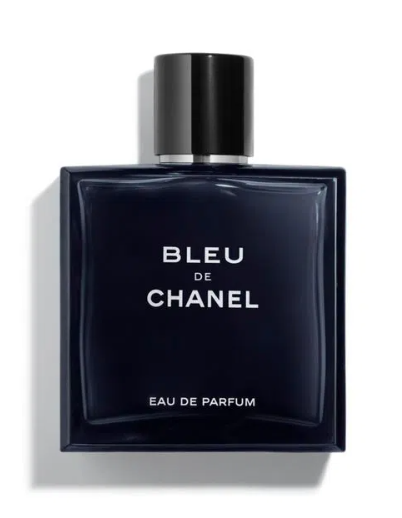
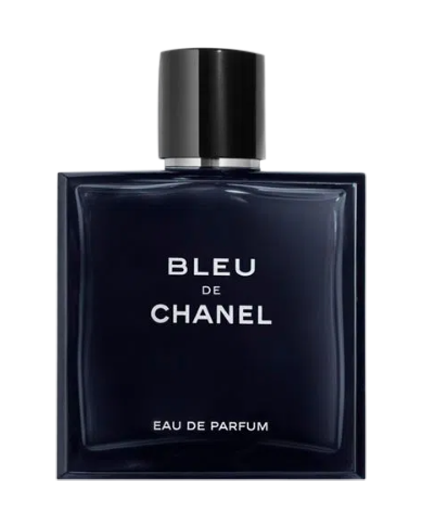
fotos e index

Changed region(s): [[0.0597, 0.0618, 0.8657, 0.9575], [0.3582, 0.4633, 0.6567, 0.6178], [0.6269, 0.1236, 0.6567, 0.278]]

diff --git a/index.html b/index.html
@@ -71,10 +71,7 @@
         </div> 
           
                
-            <!--<img src="./img/PNG render/1Milion PacoRabanne.png" alt="" class="perfumeImgBox">
-            <div class="nombrePerfume">Bleu de Chanel</div>
-            <div class="marca">Chanel</div>
-            <div class="precio">$15000</div>-->
+            
         </div>
 
         <div class="box">
@@ -106,8 +103,7 @@
         <div class="ellas__button">
           <a class="enlace" href="#"><span class="icon-carrito"><i class="fa-solid fa-cart-shopping" style="color: #000000;"></i></span>A&ntilde;adir al carrito</a>
       </div>
-          <!--<img src="./img/PNG Render/N5Channel.png" alt ="PERFUME CHANNEL N5" class="perfumeImgBox">
-            <div class="nombrePerfume">CHANNEL N5</div>-->
+         
         </div>
 
         <div class="box">
@@ -124,8 +120,7 @@
         <div class="ellas__button">
           <a class="enlace" href="#"><span class="icon-carrito"><i class="fa-solid fa-cart-shopping" style="color: #000000;"></i></span>A&ntilde;adir al carrito</a>
         </div>
-            <!--<img src="./img/PNG Render 2/HugoBoss.png" alt ="PERFUME HUGO BOSS" class="perfumeImgBox">
-            <div class="nombrePerfume">HUGO BOSS</div>-->
+          
         </div>
 
         <div class="box">
@@ -142,15 +137,14 @@
         <div class="ellas__button">
           <a class="enlace" href="#"><span class="icon-carrito"><i class="fa-solid fa-cart-shopping" style="color: #000000;"></i></span>A&ntilde;adir al carrito</a>
       </div>
-            <!--<img src="./img/PNG Render 2/CocoChanel.png" alt ="PERFUME COCO CHANEL" class="perfumeImgBox">
-            <div class="nombrePerfume">COCO CHANNEL</div>-->
+           
         </div>
 
         <div class="box">
 
           <div class="ellas__nombres">
-            <img src="img/Ellas/one_million.png" alt="foto del perfume FAM_EDP1">
-            <h2 id = "perfume6">One Million</h2>
+            <img src="img/Ellas/one_million.png" alt="foto del perfume one_million">
+            <h2 id = "perfume6">ONE MILLION</h2>
           </div>
 
           <div class="ellas__descripcion">
@@ -160,14 +154,13 @@
         <div class="ellas__button">
           <a class="enlace" href="#"><span class="icon-carrito"><i class="fa-solid fa-cart-shopping" style="color: #000000;"></i></span>A&ntilde;adir al carrito</a>
       </div>
-            <!--<img src="./img/PNG Render 2/1Milion PacoRabanne.png" alt ="PERFUME ONE MILLION" class="perfumeImgBox">
-            <div class="nombrePerfume">ONE MILLION</div>-->
+           
         </div>
 
         <div class="box">
 
           <div class="ellas__nombres">
-            <img src="img/Ellas/212vip.png" alt="foto del perfume FAM_EDP1">
+            <img src="img/Ellos/moschino.png" alt="foto del perfume moschino">
             <h2 id="perfume7"></h2>
           </div>
 
@@ -178,14 +171,13 @@
         <div class="ellas__button">
           <a class="enlace" href="#"><span class="icon-carrito"><i class="fa-solid fa-cart-shopping" style="color: #000000;"></i></span>A&ntilde;adir al carrito</a>
       </div>
-            <!--<img src="./img/Ellos/guerlain.PNG" alt ="PERFUME GUERLAIN" class="perfumeImgBox">
-            <div class="nombrePerfume">L’HOME IDEAL GUERLAIN </div>-->
+            
         </div>
 
         <div class="box">
 
           <div class="ellas__nombres">
-            <img src="img/Ellos/terrae.PNG" alt="foto del perfume FAM_EDP1">
+            <img src="img/Ellos/terrae.PNG" alt="foto del perfume terrae">
             <h2 id="perfume8"></h2>
           </div>
 
@@ -196,14 +188,13 @@
         <div class="ellas__button">
           <a class="enlace" href="#"><span class="icon-carrito"><i class="fa-solid fa-cart-shopping" style="color: #000000;"></i></span>A&ntilde;adir al carrito</a>
         </div>
-            <!--<img src="./img/Ellas/coco.png" alt ="PERFUME COCO CHANEL" class="perfumeImgBox">
-            <div class="nombrePerfume">COCO CHANNEL</div>-->
+            
         </div>
 
         <div class="box">
 
           <div class="ellas__nombres">
-            <img src="img/Ellas/amor.png" alt="foto del perfume FAM_EDP1">
+            <img src="img/Ellas/amor.png" alt="foto del perfume Amor">
             <h2 id="perfume9"></h2>
           </div>
 
@@ -214,13 +205,12 @@
         <div class="ellas__button">
           <a class="enlace" href="#"><span class="icon-carrito"><i class="fa-solid fa-cart-shopping" style="color: #000000;"></i></span>A&ntilde;adir al carrito</a>
       </div>
-            <!--<img src="./img/Ellas/212vip.png" alt ="PERFUME 212 VIP" class="perfumeImgBox">
-            <div class="nombrePerfume">212 VIP</div>-->
+           
         </div>
 
         <div class="box">
           <div class="ellas__nombres">
-            <img src="img/Ellas/cher.png" alt="foto del perfume FAM_EDP1">
+            <img src="img/Ellas/cher.png" alt="foto del perfume Cher">
             <h2 id="perfume10"></h2>
           </div>
 
@@ -231,15 +221,14 @@
         <div class="ellas__button">
           <a class="enlace" href="#"><span class="icon-carrito"><i class="fa-solid fa-cart-shopping" style="color: #000000;"></i></span>A&ntilde;adir al carrito</a>
       </div>
-            <!--<img src="./img/Ellos/edp.PNG" alt ="PERFUME EDP" class="perfumeImgBox">
-            <div class="nombrePerfume">EDP</div>-->
+          
         </div>
 
         <div class="box">
 
           <div class="ellas__nombres">
-            <img src="img/Ellos/happy.PNG" alt="foto del perfume FAM_EDP1">
-            <h2 id="perfume11">Clinique happy.</h2>
+            <img src="img/Ellos/bleu.png" alt="foto del perfume Bleu">
+            <h2 id="perfume11">BLEU</h2>
           </div>
 
           <div class="ellas__descripcion">
@@ -249,14 +238,13 @@
         <div class="ellas__button">
           <a class="enlace" href="#"><span class="icon-carrito"><i class="fa-solid fa-cart-shopping" style="color: #000000;"></i></span>A&ntilde;adir al carrito</a>
       </div>
-            <!--<img src="./img/Ellos/terrae.PNG" alt ="PERFUME TERRAE" class="perfumeImgBox">
-            <div class="nombrePerfume">TERRAE</div>-->
+            
         </div>
 
         <div class="box">
 
           <div class="ellas__nombres">
-            <img src="img/Ellos/dissey.PNG" alt="foto del perfume FAM_EDP1">
+            <img src="img/Ellos/sauvage.png" alt="foto del perfume sauvage">
             <h2 id="perfume12"></h2>
           </div>
 
@@ -267,8 +255,7 @@
         <div class="ellas__button">
           <a class="enlace" href="#"><span class="icon-carrito"><i class="fa-solid fa-cart-shopping" style="color: #000000;"></i></span>A&ntilde;adir al carrito</a>
       </div>
-            <!--<img src="./img/Ellas/one_milion2.PNG" alt ="PERFUME ONE MILLION" class="perfumeImgBox">
-            <div class="nombrePerfume">ONE MILLION</div>-->
+           
         </div>
 
 
